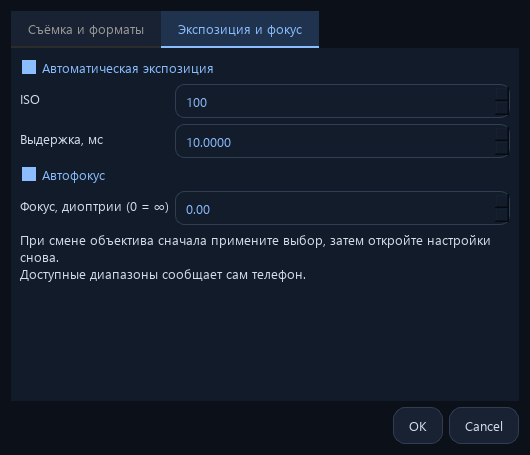
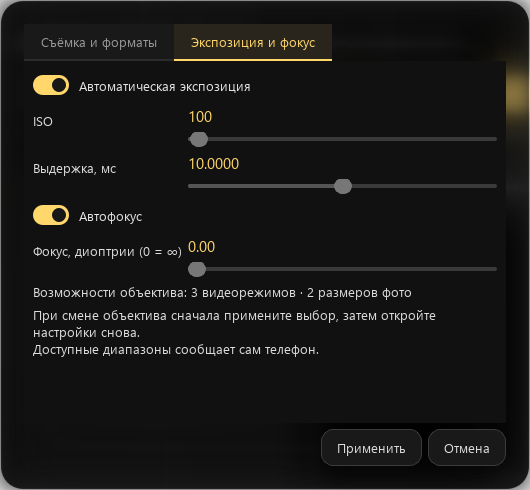
Verify multi-camera streams and refresh Aurora UI screenshots

diff --git a/scripts/capture_demo.py b/scripts/capture_demo.py
@@ -62,7 +62,7 @@ class State:
             "frameSequence":int(time.time()*10),"iso":100 if self.index==0 else 200,"exposureNs":10000000,"manualIso":0,"manualExposureNs":0,"focus":-1,
             "lastFile":self.last,"audio":True,"audioAvailable":False,"name":"Симулятор A" if self.index==0 else "Симулятор B","version":VERSION,"versionCode":self.versionCode,
             "mode":self.mode,"videoWidth":self.width,"videoHeight":self.height,"videoFps":self.fps,"photoWidth":4000,"photoHeight":3000,"photoFormat":self.photoFormat,
-            "powerState":"record_preview" if self.recording else "preview","eco":True,"previewFps":5,"manualSensor":True,"isoMin":50,"isoMax":6400,"exposureMinNs":100000,"exposureMaxNs":1000000000,"focusMax":10,
+            "powerState":"record_preview" if self.recording else "preview","eco":False,"previewFps":24,"manualSensor":True,"isoMin":50,"isoMax":6400,"exposureMinNs":100000,"exposureMaxNs":1000000000,"focusMax":10,
             "cameras":[{"id":"0","facing":1},{"id":"1","facing":0}],"captureCapabilities":{"videoModes":[{"width":1280,"height":720,"fps":[30,60]},{"width":1920,"height":1080,"fps":[30,60]},{"width":3840,"height":2160,"fps":[30]}],
                 "photoSizes":[{"width":4000,"height":3000},{"width":1920,"height":1080}],"rawSizes":[],"photoFormats":["jpg","png","webp"]}}
 
@@ -75,11 +75,20 @@ def handler(state):
             self.send_response(status);self.send_header("Content-Type",content_type);self.send_header("Content-Length",str(len(body)));self.end_headers();self.wfile.write(body)
         def document(self,data,status=200):self.send(json.dumps(data).encode(),status=status)
         def authorized(self):return self.headers.get("Authorization")=="Bearer demo-session"
+        def handle(self):
+            try:super().handle()
+            except (BrokenPipeError,ConnectionResetError,ConnectionAbortedError,ssl.SSLError):pass
         def do_GET(self):
             if not self.authorized():self.document({"error":"Pair first"},401);return
             path=urlparse(self.path)
             if path.path=="/status":self.document(state.status())
             elif path.path=="/frame":self.send(state.frame,"image/jpeg")
+            elif path.path=="/stream":
+                self.send_response(200);self.send_header("Content-Type","multipart/x-mixed-replace; boundary=aurora");self.end_headers()
+                deadline=time.monotonic()+8
+                while time.monotonic()<deadline:
+                    self.wfile.write(f"--aurora\r\nContent-Length: {len(state.frame)}\r\nX-Rotation: 0\r\n\r\n".encode()+state.frame+b"\r\n");self.wfile.flush();time.sleep(1/24)
+                self.close_connection=True
             elif path.path=="/media":self.document({"files":[{"name":name,"size":len(data)} for name,data in state.files.items()]})
             elif path.path=="/file":
                 name=parse_qs(path.query).get("name",[""])[0]
@@ -130,6 +139,7 @@ def main():
             # Only this test fixture uses loopback; the actual client transport still pins TLS.
             client=CameraClient("192.168.0.1",fingerprint);client.host=host;client.pair("1234")
             tile=CameraTile(window,client,"Симулятор A · интерьер" if i==0 else "Симулятор B · таблица");window.tiles.append(tile)
+            window.devices.append({"name":tile.name.text(),"host":host,"fingerprint":fingerprint})
         window.rebuild();window.show()
         def screenshot(name):app.processEvents();assert window.grab().save(str(out/name))
         def capture_photo():
@@ -149,6 +159,13 @@ def main():
                 return QDialog.DialogCode.Rejected
             QDialog.exec=capture_dialog
             try:window.tiles[0].settings()
+            finally:QDialog.exec=original
+            tile=window.tiles[0];tile.open_fullscreen();app.processEvents();assert tile.fullscreen.isFullScreen();assert not window.isFullScreen()
+            assert tile.fullscreen.grab().save(str(out/"05-fullscreen-monitor.png"));tile.fullscreen.reject();app.processEvents()
+            def capture_popup(dialog):
+                dialog.show();app.processEvents();assert dialog.grab().save(str(out/"06-iso-popover.png"));return QDialog.DialogCode.Rejected
+            QDialog.exec=capture_popup
+            try:tile.quick_sensor("iso",tile.iso_readout)
             finally:QDialog.exec=original
             states[1].recording=False
             for tile in window.tiles:tile.status["recording"]=False;tile.stopped.set();tile.monitor.stop()

diff --git a/desktop/appearance.py b/desktop/appearance.py
@@ -49,6 +49,7 @@ class GlassSheet(QDialog):
 
 class Toggle(QCheckBox):
     def sizeHint(self):return QSize(self.fontMetrics().horizontalAdvance(self.text())+60,30)
+    def hitButton(self,position):return self.rect().contains(position)
     def paintEvent(self,event):
         p=QPainter(self);p.setRenderHint(QPainter.RenderHint.Antialiasing)
         p.setPen(Qt.PenStyle.NoPen);p.setBrush(QColor("#ffd76b" if self.isChecked() else "#424242"));p.drawRoundedRect(QRectF(0,5,36,20),10,10)

diff --git a/README.md b/README.md
@@ -16,6 +16,10 @@ Actual desktop screenshots connected through pinned TLS to two local **camera si
 
 ![Exposure and focus](docs/screenshots/04-exposure-settings.png)
 
+![Compact ISO glass popover](docs/screenshots/06-iso-popover.png)
+
+![Separate fullscreen camera monitor](docs/screenshots/05-fullscreen-monitor.png)
+
 Reproduce with `python scripts/capture_demo.py`. The development simulator listens only on loopback and is not part of the installed app.
 
 ## First connection
@@ -38,7 +42,7 @@ CI also builds **Camera Deck Aurora** (`-PcameraDeckPreview=true`) with a separa
 - JPEG, PNG, WebP and capability-gated RAW DNG, with all normal and slower high-resolution photo sizes exposed by Camera2; no artificial 24-megapixel limit. Large PNG/WebP conversions may exceed available RAM; select JPEG/RAW or a smaller size in that case. PNG/WebP are converted from the processed JPEG: PNG does not restore lost JPEG information; WebP uses quality 95. DNG uses an actual RAW_SENSOR image and matching capture metadata. A failed RAW+preview combination reports an error and restores JPEG.
 - ISO + shutter applied together in manual mode, or automatic exposure; focus in dioptres or continuous autofocus. Controls report actual sensor exposure values. Unavailable capabilities are disabled or rejected by the phone.
 - Photos are unavailable while recording. Stop video before changing the camera or installing an update. Recording remains on the phone if the Windows desk disconnects; use the phone notification's Stop action to stop the service if needed.
-- **Материалы** lists up to 100 latest completed files and downloads selected originals to a chosen Windows folder. Recordings live in the app-specific external captures directory. **Uninstalling the Android app removes its recordings**; download originals first. Interrupted desktop transfers are not presented as complete files.
+- **Материалы** lists up to 100 latest completed files and downloads selected originals to a chosen Windows folder. Recordings use the selected destination (private capture directory or a user-granted document tree). **Uninstalling the app removes its app-private recordings**; download private originals first. Interrupted desktop transfers are not presented as complete files.
 
 ## Public signed updates
 
@@ -62,13 +66,13 @@ Check **Слушать микрофон телефона** to hear live sound on
 
 Hiding/minimizing/pausing a camera's preview stops live monitoring but does not stop an active MP4 sound track. With no listener or recording, the microphone stops. The notification indicates microphone activity.
 
-**Resolution/FPS selectors control the original recording.** Live images remain about 640px at 12fps Eco / up to 24fps normal. Live PCM and JPEG use separate paths and are not lip-synchronized. MP4 uses a common elapsed-realtime origin and hardware audio timestamps when available; an unknown Camera2 timebase uses first-frame calibration. No measured synchronization accuracy is claimed.
+**Resolution/FPS selectors control the original recording.** Remote images use a camera-reported preview size chosen near 960 × 540 at up to 12fps Eco / 24fps normal; the local native viewfinder is separate. Live PCM and JPEG use separate paths and are not lip-synchronized. MP4 uses a common elapsed-realtime origin and hardware audio timestamps when available; an unknown Camera2 timebase uses first-frame calibration. No measured synchronization accuracy is claimed.
 
 ## Background operation and battery
 
 Start the camera while the Android application is visible, then press **Продолжить в фоне**, switch applications or turn off the screen. The existing camera foreground service continues with a visible notification and Stop action. This does not start the camera after a reboot or force-stop, and Android may terminate it under system pressure.
 
-Eco is optional (normal preview is the default) and saved between launches. It reduces JPEG encoding quality from 72 to 60 and caps preview encoding and Windows frame requests at 12fps, without changing recording targets. The sensor FPS range comes from the device; a 5fps sensor mode is not assumed. Recording keeps the selected target FPS. Microphone capture, PCM transmission and AAC encoding also consume battery when enabled.
+Eco is optional (normal preview is the default) and saved between launches. It reduces JPEG encoding quality from 72 to 60 and caps remote preview encoding at 12fps, without changing recording targets. The sensor FPS range comes from the device; a 5fps sensor mode is not assumed. Recording keeps the selected target FPS. Microphone capture, PCM transmission and AAC encoding also consume battery when enabled.
 
 Local preview on the phone is on by default while the activity is visible and can be paused with **Показывать камеру**. It uses a native Camera2 output when the stream combination is supported, with a JPEG compatibility fallback. Returning to the app during an active recording may use JPEG until recording stops, so no recorder restart is required. The screen is never kept awake automatically. Minimizing the Windows desk, hiding a camera by group or unchecking **Предпросмотр** stops its frame requests; status checks slow to once every three seconds. Other visible desks may still request preview. Stopping preview never stops an active recording.
 
